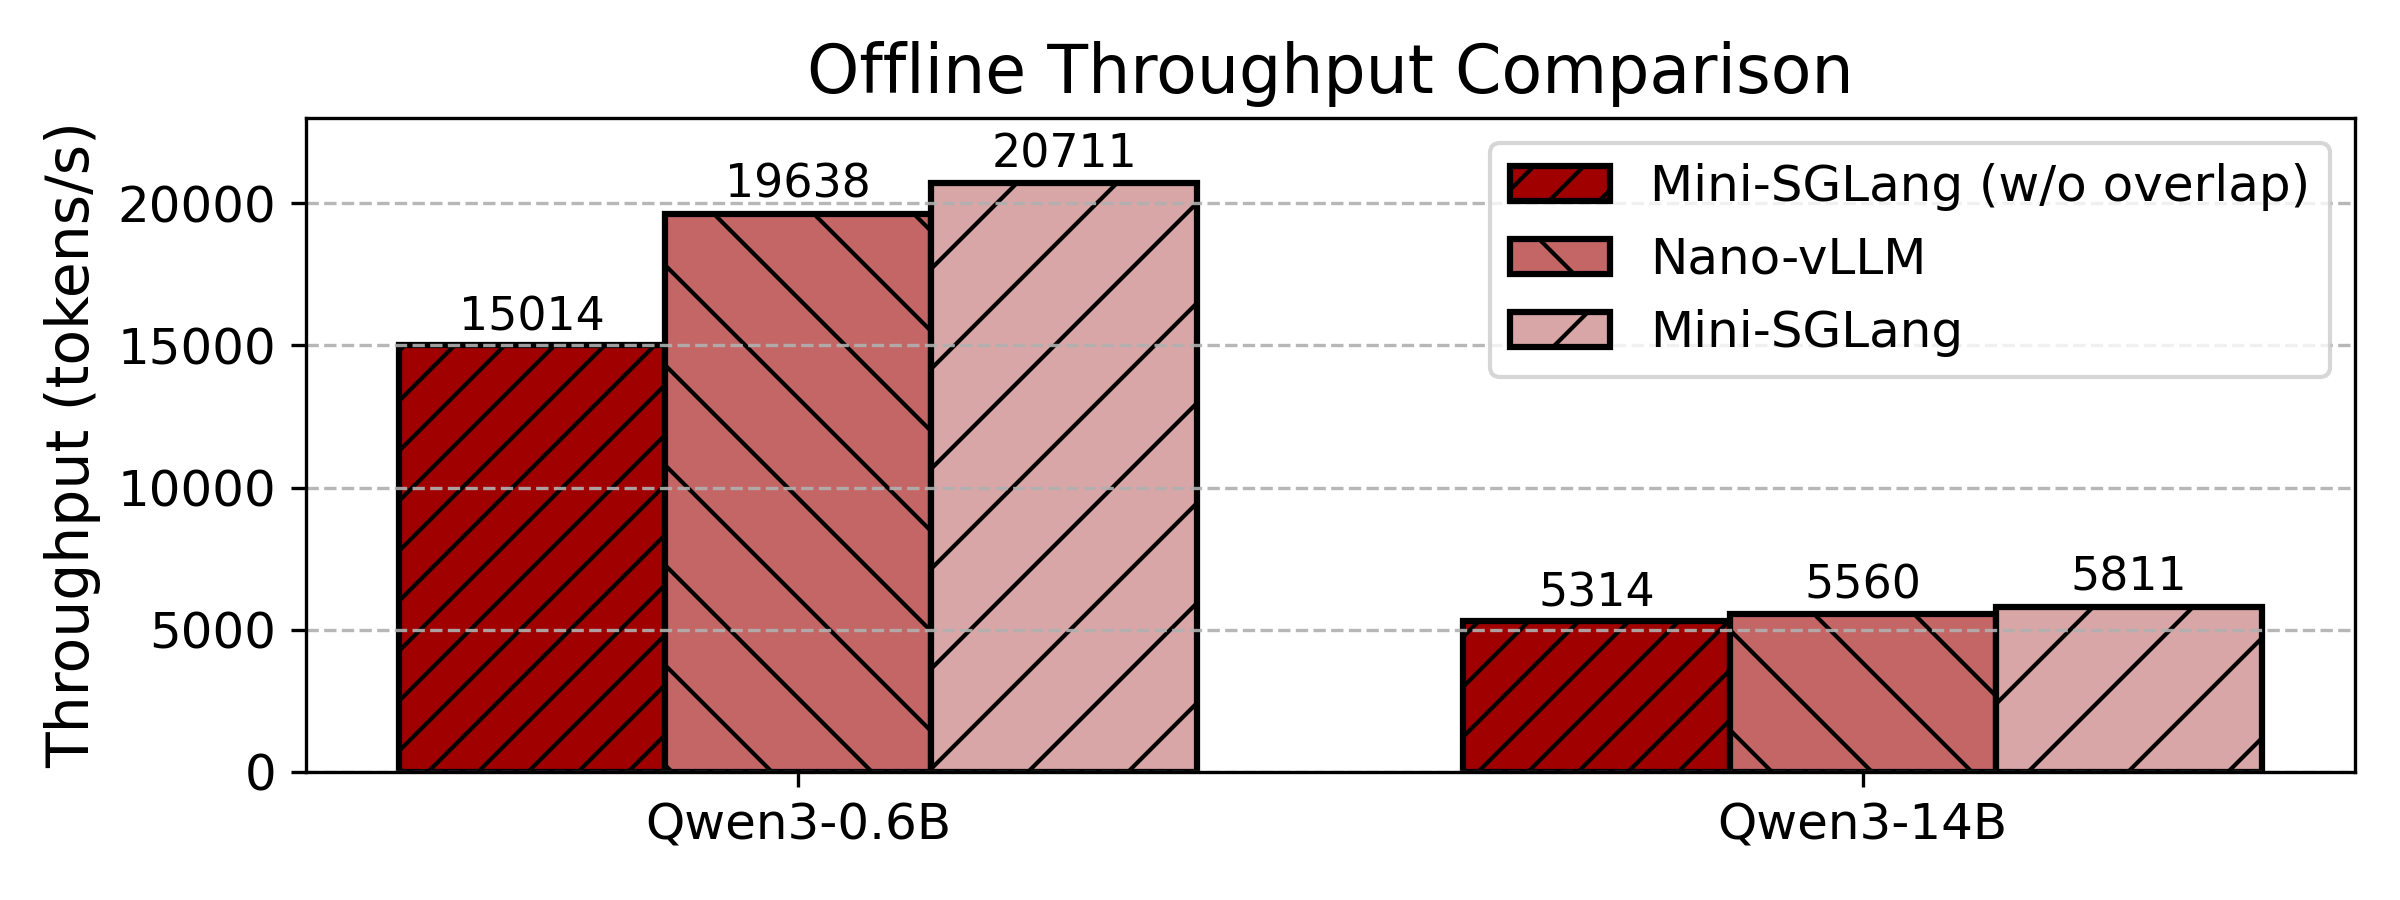
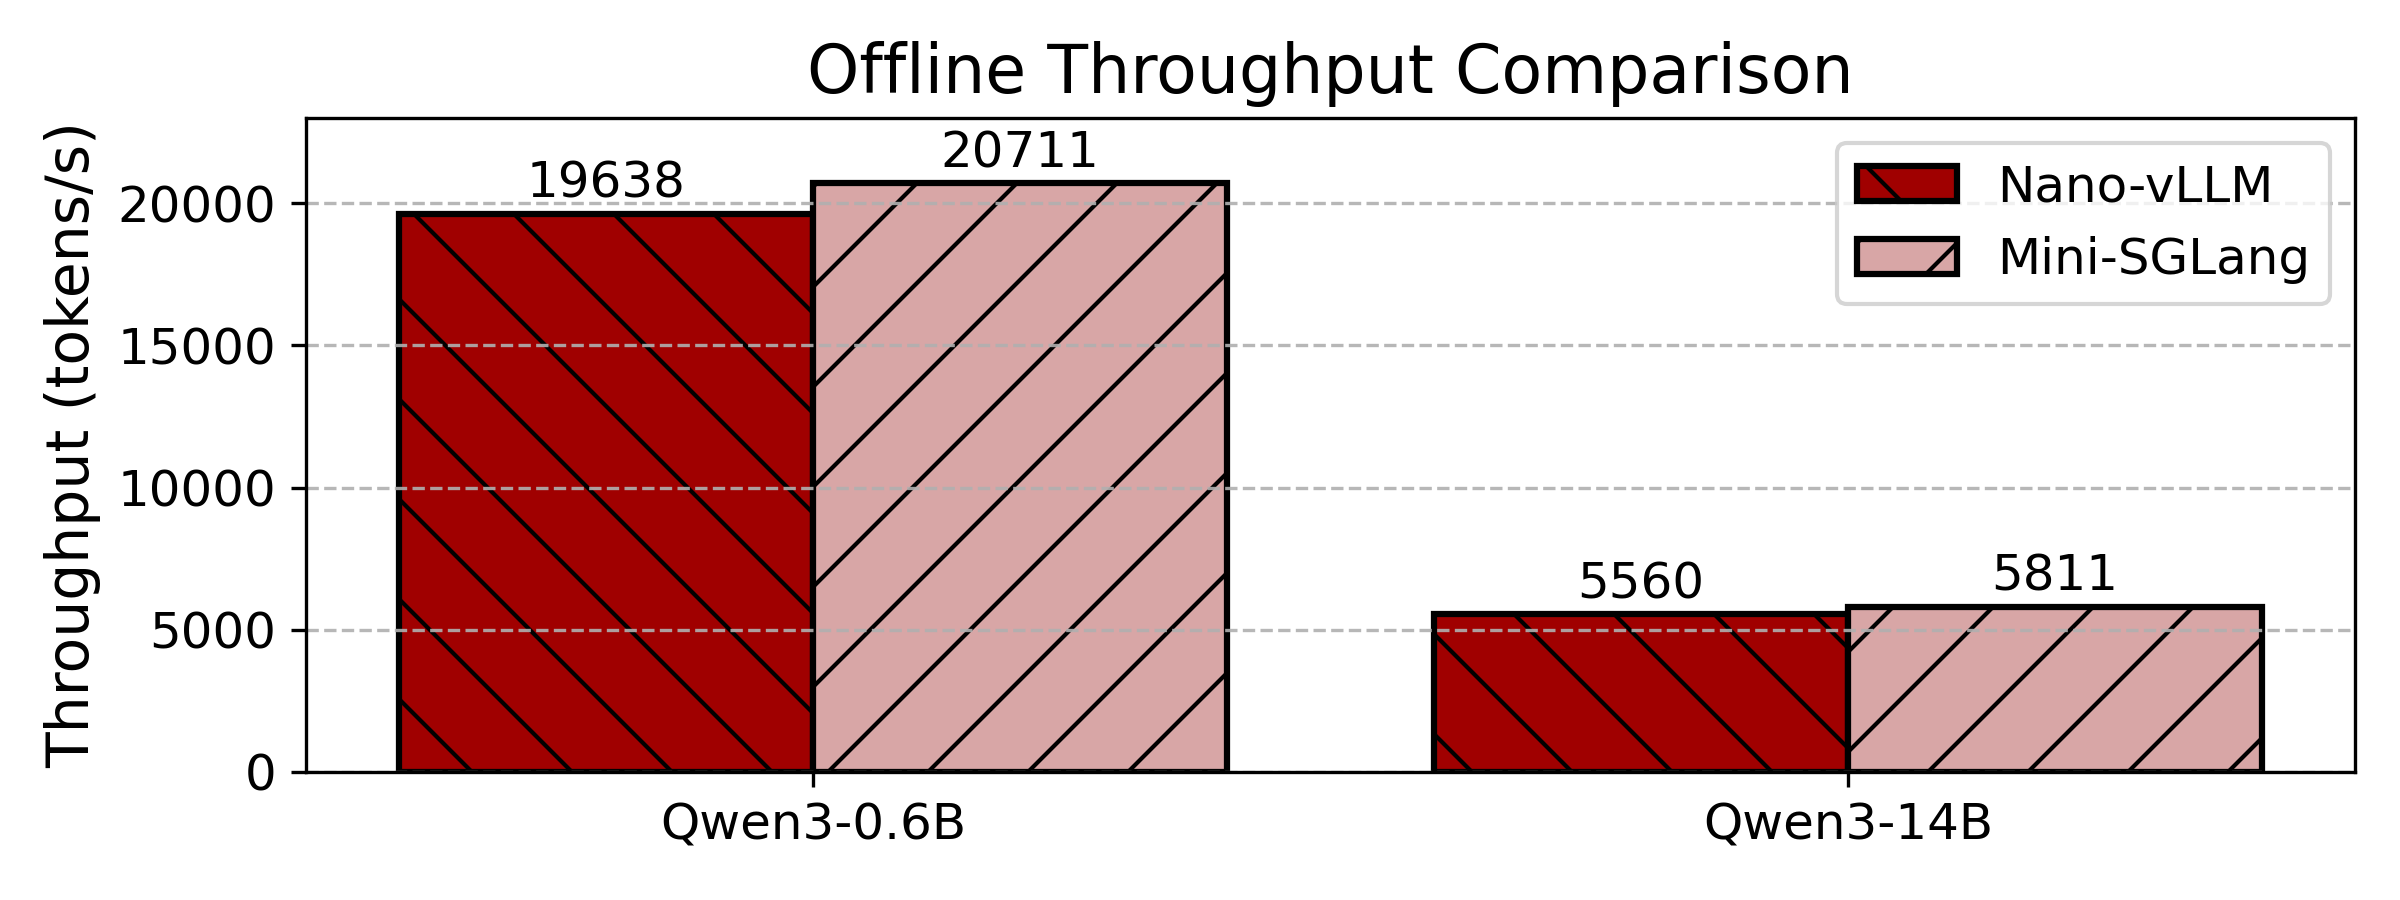
minor: update figure and link

diff --git a/blog/2025-12-09-minisgl.md b/blog/2025-12-09-minisgl.md
@@ -7,7 +7,7 @@ previewImg: /images/blog/minisgl/design.drawio.png
 
 We're excited to introduce **Mini-SGLang**, a lightweight yet high-performance inference framework for Large Language Models (LLMs). Derived from the [SGLang](https://github.com/sgl-project/sglang) project, Mini-SGLang is designed to demystify the complexities of modern serving systems. Despite its compact codebase, it retains the advanced features that define state-of-the-art performance, including **Radix Attention** for efficient KV cache reuse, **Chunked Prefill** for controlled memory footprint, and **Tensor Parallelism** for scalable distributed serving. With an OpenAI-compatible API and out-of-the-box support for models like Llama-3 and Qwen-3, Mini-SGLang serves as both a capable inference engine and a transparent reference implementation for researchers and developers.
 
-The source code is available at [https://github.com/DarkSharpness/mini-sglang](https://github.com/DarkSharpness/mini-sglang).
+The source code is available at [https://github.com/sgl-project/mini-sglang](https://github.com/sgl-project/mini-sglang).
 
 ## Motivation: Why Mini-SGLang?
 
@@ -45,6 +45,8 @@ Mini-SGLang implements an **overlap scheduling** mechanism, similar to the one i
 
 > An example of non-overlapped execution. CPU execution overhead leads to substantial GPU stalls.
 
+To run an ablation study without overlap scheduling, set the environment variable `MINISGL_DISABLE_OVERLAP_SCHEDULING=1`.
+
 ### High-Performance Kernels
 
 Mini-SGLang integrates state-of-the-art attention kernels to ensure top performance. It leverages [FlashAttention-3](https://github.com/Dao-AILab/flash-attention) for prefill kernel and [FlashInfer](https://github.com/flashinfer-ai/flashinfer) for decode kernel on NVIDIA Hopper architecture.
@@ -74,9 +76,9 @@ The throughput results (in tokens per second) are shown below:
 
 ![Offline-Benchmark](/images/blog/minisgl/offline.png)
 
-The results show that Mini-SGLang consistently outperforms both baselines on both Qwen3 models, thanks to our **overlap scheduling** mechanism that effectively hides CPU overhead.
+The results show that Mini-SGLang consistently outperforms Nano-vLLM baseline on both Qwen3 models, thanks to our **overlap scheduling** mechanism that effectively hides CPU overhead.
 
-**Reproducibility**: The offline benchmark script is available at [this link](https://github.com/DarkSharpness/mini-sglang/blob/main/benchmark/offline/bench_nanovllm.py). To run an ablation study without overlap scheduling, set the environment variable `MINISGL_DISABLE_OVERLAP_SCHEDULING=1`.
+**Reproducibility**: The offline benchmark script is available at [this link](https://github.com/sgl-project/mini-sglang/blob/main/benchmark/offline/bench_nanovllm.py).
 
 ### Online Serving Latency
 
@@ -102,13 +104,13 @@ python3 -m sglang.launch_server --model "Qwen/Qwen3-32B" --tp 4 \
     --disable-radix --port 1919 --decode-attention flashinfer
 ```
 
-The online benchmark script is available at [this link](https://github.com/DarkSharpness/mini-sglang/blob/main/benchmark/online/bench_qwen.py).
+The online benchmark script is available at [this link](https://github.com/sgl-project/mini-sglang/blob/main/benchmark/online/bench_qwen.py).
 
 ## Conclusion
 
 Mini-SGLang successfully distills the power of a state-of-the-art inference engine into a compact and understandable codebase. By retaining key optimizations like overlap scheduling and high-performance attention kernels, it delivers impressive performance while serving as an invaluable educational tool and a flexible platform for research.
 
-We invite you to explore the [source code](https://github.com/DarkSharpness/mini-sglang), run the benchmarks, and see for yourself how Mini-SGLang makes high-performance LLM inference more accessible than ever.
+We invite you to explore the [source code](https://github.com/sgl-project/mini-sglang), run the benchmarks, and see for yourself how Mini-SGLang makes high-performance LLM inference more accessible than ever.
 
 ## Acknowledgements
 
